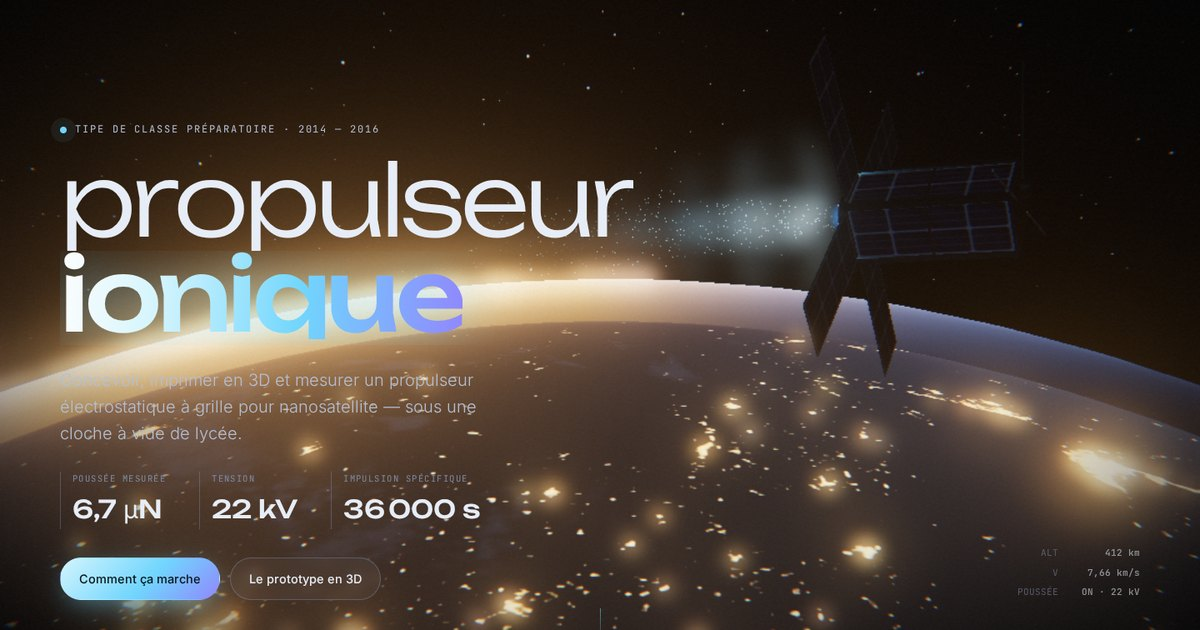
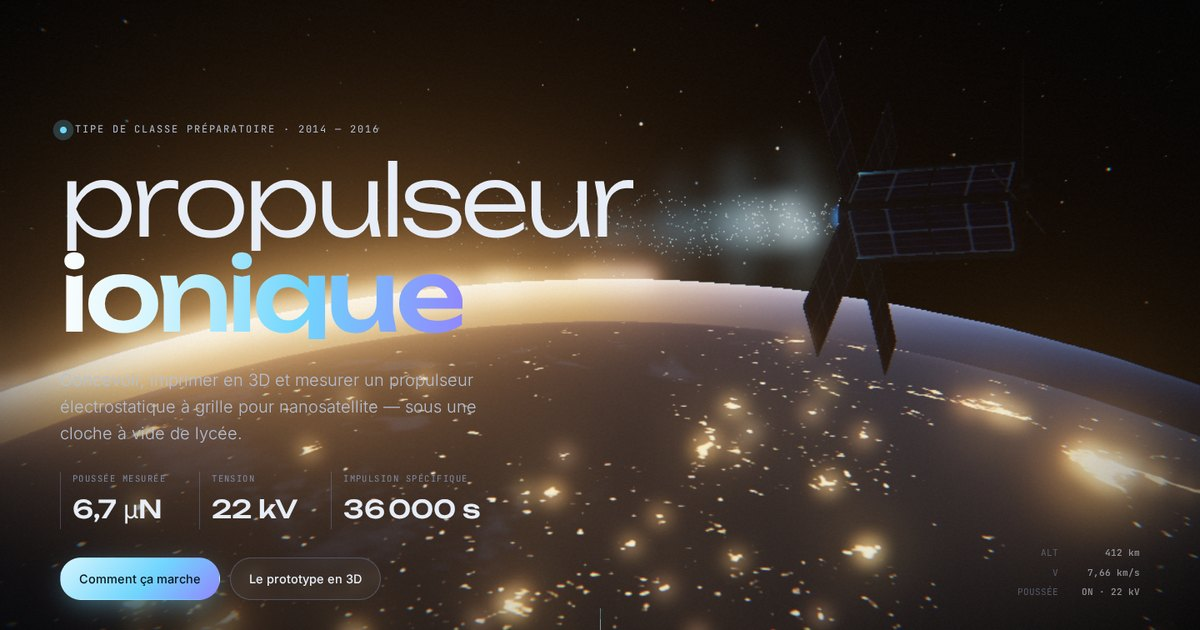
Hero legibility over the sunrise limb

diff --git a/css/style.css b/css/style.css
@@ -174,7 +174,7 @@ main { position: relative; z-index: 2; }
 
 /* ---------- hero ---------- */
 .panel-hero { min-height: 100vh; min-height: 100svh; align-items: flex-end; padding-bottom: clamp(70px, 12vh, 140px); }
-.panel-hero::before { content: ''; position: absolute; inset: 0; pointer-events: none; background: radial-gradient(ellipse 70% 60% at 0% 100%, rgba(3, 5, 11, .7), transparent 70%); }
+.panel-hero::before { content: ''; position: absolute; inset: 0; pointer-events: none; background: radial-gradient(ellipse 60% 55% at 0% 100%, rgba(3, 5, 11, .82), transparent 72%); }
 .hero-content { position: relative; }
 .hero-content { max-width: 760px; }
 .eyebrow { display: inline-flex; align-items: center; gap: 10px; margin: 0 0 22px; font-family: var(--f-mono); font-size: 12px; letter-spacing: .16em; text-transform: uppercase; color: var(--ink-2); }
@@ -183,8 +183,9 @@ main { position: relative; z-index: 2; }
 .hero-title { font-family: var(--f-display); font-weight: 300; font-size: clamp(44px, 8.2vw, 136px); white-space: nowrap; line-height: .9; letter-spacing: -.045em; margin: 0 0 26px; text-transform: lowercase; }
 .ht-line { display: block; overflow: hidden; padding-bottom: .06em; }
 .ht-word { display: inline-block; }
-.ht-glow { font-weight: 500; background: linear-gradient(95deg, #fff 0%, var(--plasma) 25%, var(--ion) 60%, var(--ion-2) 100%); -webkit-background-clip: text; background-clip: text; color: transparent; filter: drop-shadow(0 0 28px rgba(111, 214, 255, .45)); }
-.hero-sub { max-width: 560px; font-size: clamp(17px, 1.45vw, 20px); color: var(--ink-2); font-weight: 300; margin-bottom: 30px; }
+.ht-glow { font-weight: 500; background: linear-gradient(95deg, #fff 0%, var(--plasma) 25%, var(--ion) 60%, var(--ion-2) 100%); -webkit-background-clip: text; background-clip: text; color: transparent; }
+.hero-sub { max-width: 560px; font-size: clamp(17px, 1.45vw, 20px); color: var(--ink); font-weight: 300; margin-bottom: 30px; text-shadow: 0 1px 2px rgba(0, 0, 0, .9), 0 0 24px rgba(3, 5, 11, .95); }
+.hero-kpis, .eyebrow { text-shadow: 0 1px 2px rgba(0, 0, 0, .8), 0 0 18px rgba(3, 5, 11, .9); }
 .hero-kpis { display: flex; flex-wrap: wrap; gap: 14px 40px; margin: 0 0 34px; }
 .hero-kpis div { border-left: 1px solid var(--line-2); padding-left: 14px; }
 .hero-kpis dt { font-family: var(--f-mono); font-size: 10.5px; letter-spacing: .14em; text-transform: uppercase; color: var(--ink-3); }
